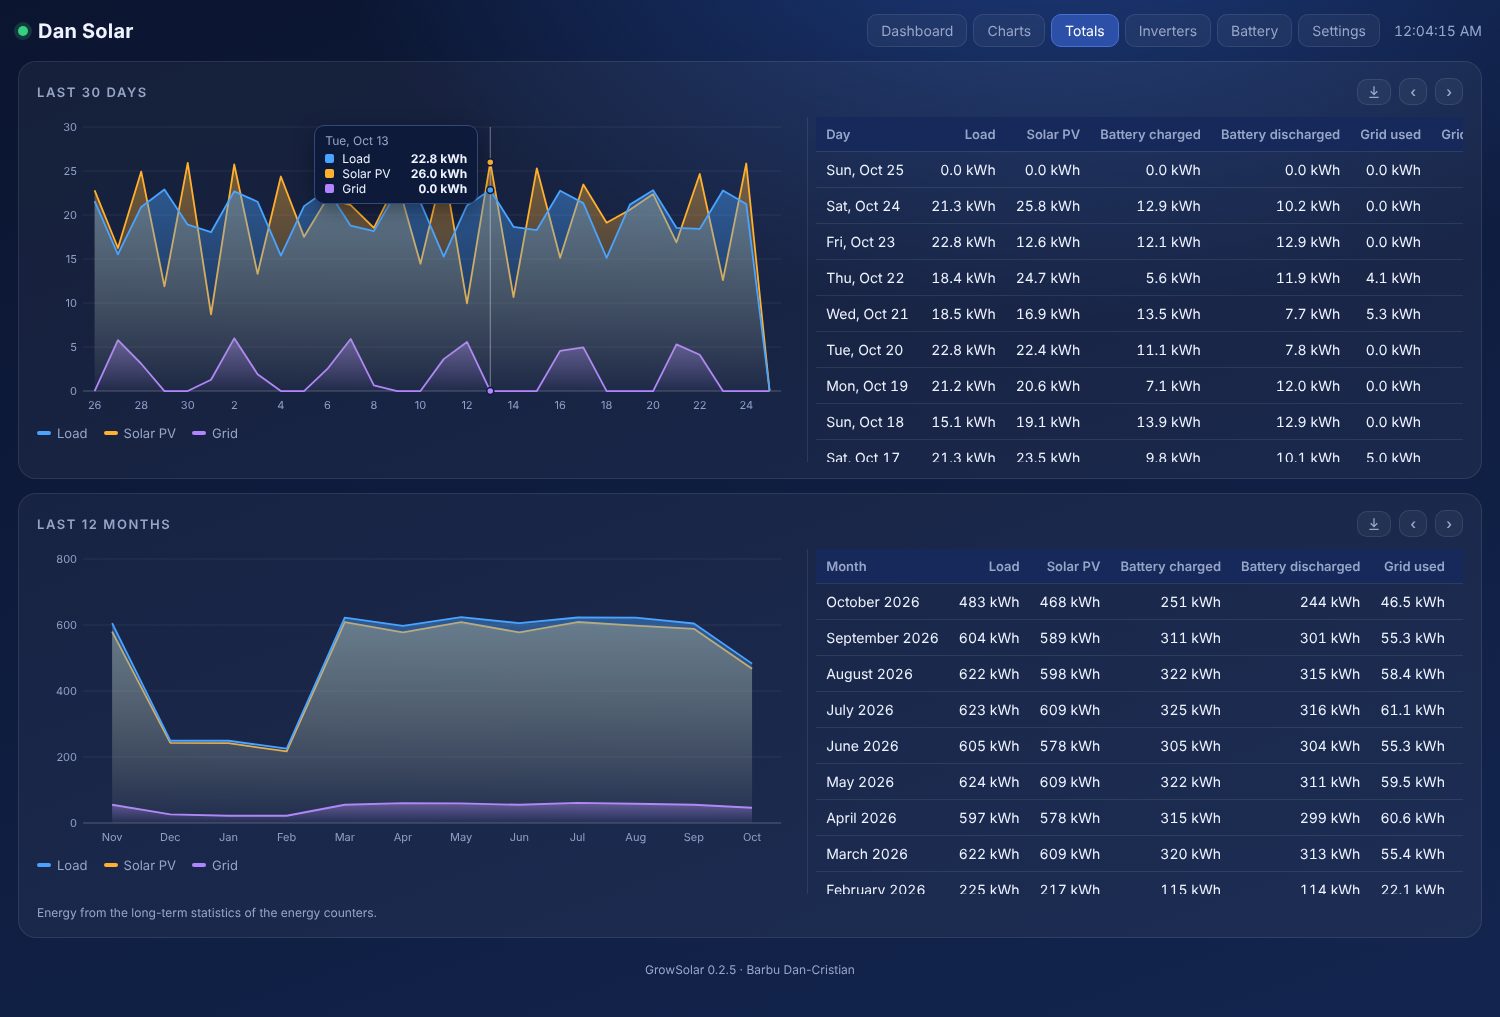
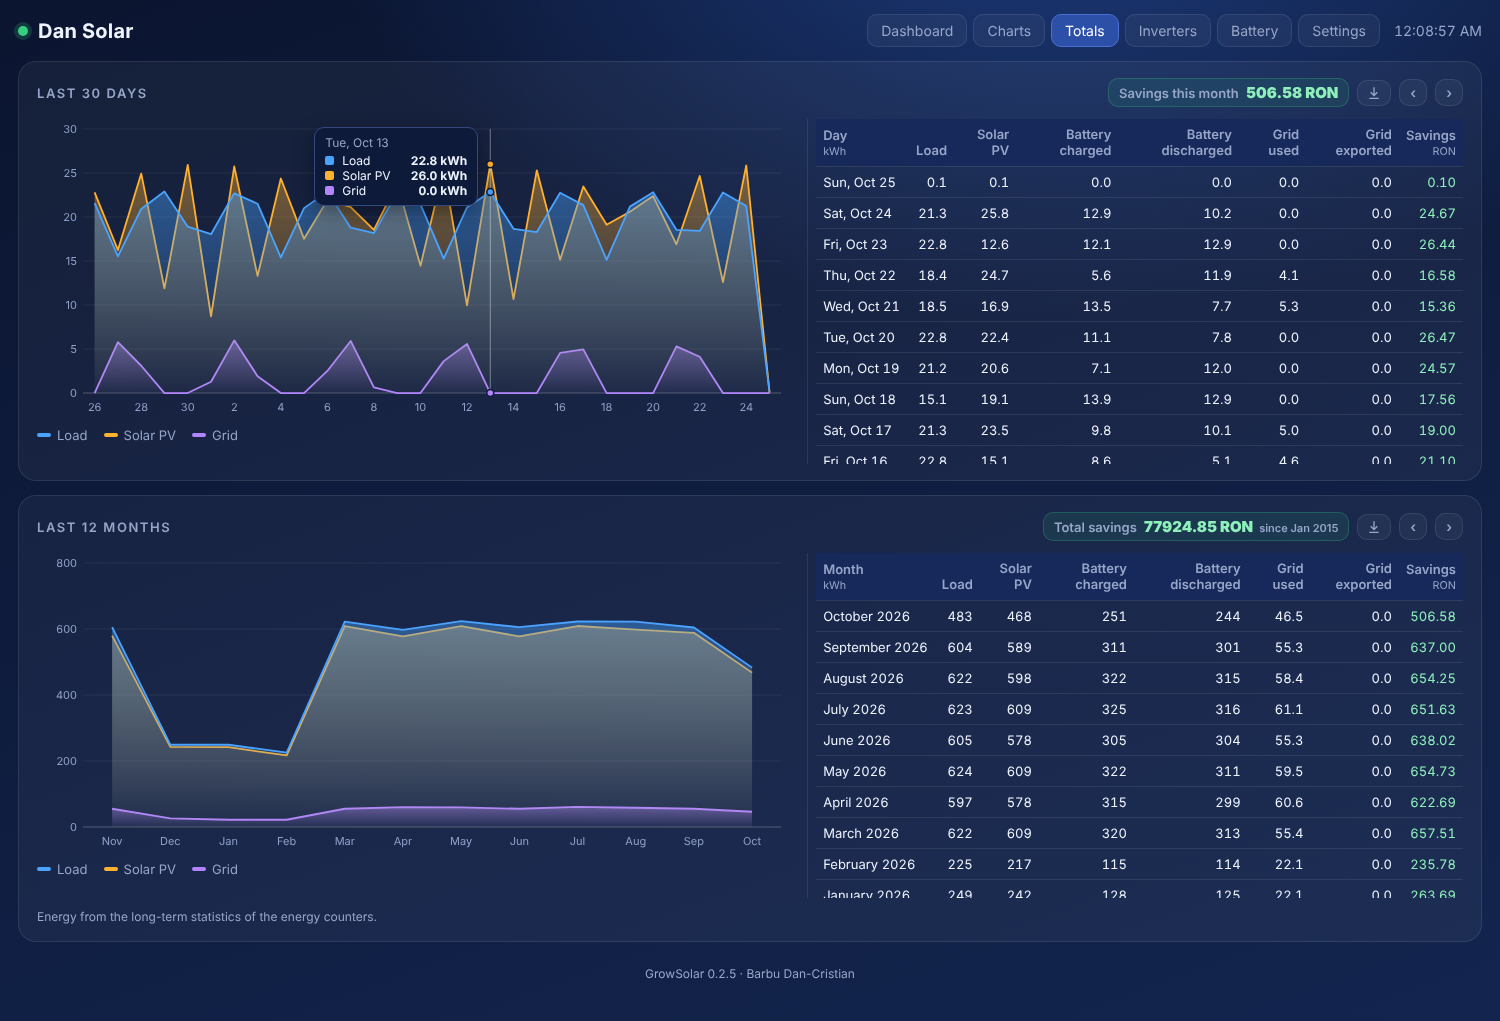
Totals: savings this month and total savings above the charts; compact tables keep the savings column visible

diff --git a/custom_components/growsolar/frontend/growsolar-panel.js b/custom_components/growsolar/frontend/growsolar-panel.js
@@ -34,7 +34,7 @@ const STR = {
     noData: 'No data', noSetup: 'GrowSolar has no entities yet. Open Settings → Devices & services → GrowSolar → Configure.',
     kwhNote: 'Energy from the long-term statistics of the energy counters.', price: 'Price',
     perInv: 'Inverter', mppt: 'mppt', loading: 'Loading…',
-    csv: 'Download CSV',
+    csv: 'Download CSV', savMonth: 'Savings this month', savTotal: 'Total savings', since: 'since',
     settings: 'Settings', firmware: 'Firmware', invClock: 'Inverter clock', mpptTemp: 'MPPT temperature', fan: 'Fan',
     setting: 'Setting', allInv: 'All inverters', applyAll: 'Apply to all', edit: 'Change', cancel: 'Cancel', save: 'Save',
     confirmTitle: 'Change inverter settings?', confirmOk: 'Yes, change', confirmNote: 'The inverters are changed one after the other; each value is checked before the next one is sent.',
@@ -69,7 +69,7 @@ const STR = {
     noData: 'Fără date', noSetup: 'GrowSolar nu are încă entități. Deschide Setări → Dispozitive și servicii → GrowSolar → Configurează.',
     kwhNote: 'Energia vine din statisticile pe termen lung ale contoarelor de energie.', price: 'Preț',
     perInv: 'Invertor', mppt: 'mppt', loading: 'Se încarcă…',
-    csv: 'Descarcă CSV',
+    csv: 'Descarcă CSV', savMonth: 'Economii luna aceasta', savTotal: 'Economii totale', since: 'din',
     settings: 'Setări', firmware: 'Firmware', invClock: 'Ceas invertor', mpptTemp: 'Temperatură MPPT', fan: 'Ventilator',
     setting: 'Setare', allInv: 'Toate invertoarele', applyAll: 'Aplică pe toate', edit: 'Schimbă', cancel: 'Renunță', save: 'Salvează',
     confirmTitle: 'Schimbi setările invertoarelor?', confirmOk: 'Da, schimbă', confirmNote: 'Invertoarele se schimbă pe rând; fiecare valoare e verificată înainte să o trimit pe următoarea.',
@@ -254,8 +254,13 @@ td small{color:var(--mut);margin-left:6px;font-size:11px;background:rgba(255,209
 .kv span:nth-child(even){font-variant-numeric:tabular-nums}
 .tot{display:grid;grid-template-columns:minmax(0,1.15fr) minmax(0,1fr);gap:16px;align-items:start}
 .tscroll{max-height:345px;overflow:auto;border-left:1px solid var(--line);padding-left:8px}
-.tscroll table th{position:sticky;top:0;background:#16295a;z-index:1}
+.tscroll table th{position:sticky;top:0;background:#16295a;z-index:1;white-space:normal;line-height:1.25;vertical-align:bottom}
+.tscroll th,.tscroll td{padding:7px 7px;font-size:13px}
+.tscroll th small{display:block;margin:2px 0 0;background:none;padding:0;font-weight:400;color:var(--mut)}
+.tscroll td.sv{color:#8ff0bb}
 .arrow.dl{display:inline-flex;align-items:center;padding:4px 8px}
+.sav{font-size:13px;letter-spacing:0;text-transform:none;color:var(--mut);background:rgba(53,208,127,.1);border:1px solid rgba(53,208,127,.25);border-radius:10px;padding:4px 10px;white-space:nowrap}
+.sav:empty{display:none}.sav b{color:#8ff0bb;font-size:15px;margin-left:4px}.sav small{margin-left:6px;font-size:11px}
 @media (max-width:900px){.tot{grid-template-columns:1fr}.tscroll{border-left:0;padding-left:0;max-height:none}}
 .note{color:var(--mut);font-size:13px;margin:10px 0 0;line-height:1.45}
 table.sets td.sv.click{cursor:pointer}table.sets td.sv.click:hover{background:rgba(74,111,208,.15)}
@@ -981,9 +986,9 @@ class GrowSolarPanel extends HTMLElement {
   /* ================================================================= totals */
   _totals(m) {
     const dl = (id) => `<button class="arrow dl" id="${id}" title="${esc(this.t('csv'))}"><svg viewBox="0 0 24 24" width="16" height="16"><path fill="currentColor" d="M12 3a1 1 0 0 1 1 1v9.6l3.3-3.3 1.4 1.4L12 17.4l-5.7-5.7 1.4-1.4 3.3 3.3V4a1 1 0 0 1 1-1zM5 19h14v2H5z"/></svg></button>`;
-    m.innerHTML = `<section class="card"><h2>${this.t('last30')}<span class="sp"></span>${dl('d_csv')}<button class="arrow" id="d_prev">‹</button><button class="arrow" id="d_next">›</button></h2>
+    m.innerHTML = `<section class="card"><h2>${this.t('last30')}<span class="sp"></span><span class="sav" id="d_sav"></span>${dl('d_csv')}<button class="arrow" id="d_prev">‹</button><button class="arrow" id="d_next">›</button></h2>
         <div class="tot"><div id="c_days"></div><div class="tscroll"><table id="t_days"></table></div></div></section>
-      <section class="card" style="margin-top:14px"><h2>${this.t('last12')}<span class="sp"></span>${dl('m_csv')}<button class="arrow" id="m_prev">‹</button><button class="arrow" id="m_next">›</button></h2>
+      <section class="card" style="margin-top:14px"><h2>${this.t('last12')}<span class="sp"></span><span class="sav" id="m_sav"></span>${dl('m_csv')}<button class="arrow" id="m_prev">‹</button><button class="arrow" id="m_next">›</button></h2>
         <div class="tot"><div id="c_months"></div><div class="tscroll"><table id="t_months"></table></div></div><div class="note">${this.t('kwhNote')}</div></section>`;
     this.$('#d_csv').addEventListener('click', () => this._csv('day'));
     this.$('#m_csv').addEventListener('click', () => this._csv('month'));
@@ -1030,6 +1035,7 @@ class GrowSolarPanel extends HTMLElement {
       }
       this._totRows = this._totRows || {};
       this._totRows[period] = rows;
+      if (period === 'month') this._savings(rows);
       this.bars(this.$(period === 'day' ? '#c_days' : '#c_months'), { id: period, rows, keys: keyset, area: true });
       const price = this._cfg.price || 0, cur = this._cfg.currency || '';
       const cols = [['load', 'load'], ['pv', 'solar'], ['bat_in', 'batCharged'], ['bat_out', 'batDischarged'], ['grid_in', 'gridUsed'], ['grid_out', 'gridExported']];
@@ -1037,10 +1043,31 @@ class GrowSolarPanel extends HTMLElement {
       const has = (k) => (this.en[k] || []).length || rows.some((r) => isNum(r.values[k]));
       const shown = cols.filter(([k]) => has(k));
       const tb = this.$(period === 'day' ? '#t_days' : '#t_months');
-      tb.innerHTML = `<tr><th>${this.t(period)}</th>${shown.map(([, l]) => `<th>${this.t(l)}</th>`).join('')}${price && has('load') ? `<th>${this.t('savings')}</th>` : ''}</tr>` +
+      // energy in kWh without the unit in every cell, so the savings column fits next to the chart
+      const kwh = (v) => (isNum(v) ? (Math.abs(v) >= 100 ? v.toFixed(0) : v.toFixed(1)) : '–');
+      tb.innerHTML = `<tr><th>${this.t(period)}<small>kWh</small></th>${shown.map(([, l]) => `<th>${this.t(l)}</th>`).join('')}${price && has('load') ? `<th>${this.t('savings')}<small>${esc(cur)}</small></th>` : ''}</tr>` +
         [...rows].reverse().map((r) => { const v = r.values, sav = isNum(v.load) ? (v.load - (v.grid_in || 0)) * price : NaN;
-          return `<tr><td>${esc(r.label)}</td>${shown.map(([k]) => `<td>${fmtKwh(v[k])}</td>`).join('')}${price && has('load') ? `<td>${isNum(sav) ? sav.toFixed(2) + ' ' + esc(cur) : '–'}</td>` : ''}</tr>`; }).join('');
+          return `<tr><td>${esc(r.label)}</td>${shown.map(([k]) => `<td>${kwh(v[k])}</td>`).join('')}${price && has('load') ? `<td class="sv">${isNum(sav) ? sav.toFixed(2) : '–'}</td>` : ''}</tr>`; }).join('');
     } catch (e) { console.error('GrowSolar totals', e); }
+  }
+  /* savings above the charts: this month (daily card) and since the first recorded month (monthly card) */
+  async _savings(rows) {
+    const price = this._cfg.price || 0, cur = this._cfg.currency || '';
+    const ds = this.$('#d_sav'), ms = this.$('#m_sav');
+    if (!price || !ds || !ms) return;
+    const sav = (v) => (isNum(v.load) ? (v.load - (v.grid_in || 0)) * price : NaN);
+    const m0 = new Date(new Date().getFullYear(), new Date().getMonth(), 1).getTime();
+    const curRow = rows.find((r) => r.t === m0);
+    const sm = curRow ? sav(curRow.values) : NaN;
+    ds.innerHTML = isNum(sm) ? `${esc(this.t('savMonth'))} <b>${sm.toFixed(2)} ${esc(cur)}</b>` : '';
+    try {
+      // every month with statistics; the current month comes from the row above (it includes today)
+      const st = await this.energyStats(new Date(2015, 0, 1).getTime(), m0, 'month');
+      let total = isNum(sm) ? sm : 0, first = curRow && isNum(sm) ? m0 : 0;
+      for (const [t, v] of Object.entries(st)) { const x = sav(v); if (isNum(x) && +t < m0) { total += x; if (!first || +t < first) first = +t; } }
+      const since = first ? new Date(first).toLocaleDateString(this.lang, { month: 'short', year: 'numeric' }) : '';
+      ms.innerHTML = first ? `${esc(this.t('savTotal'))} <b>${total.toFixed(2)} ${esc(cur)}</b><small>${esc(this.t('since'))} ${esc(since)}</small>` : '';
+    } catch (e) { ms.innerHTML = ''; }
   }
   /* CSV with the same columns as Solar Assistant's export (Wh), oldest row first */
   _csv(period) {

diff --git a/README.ro.md b/README.ro.md
@@ -26,7 +26,7 @@ Senzorii sunt găsiți automat după ID-ul lor unic, deci nu contează cum i-ai 
 
 <img src="https://raw.githubusercontent.com/barbudancristian/GrowSolar/main/docs/img/charts.png" width="900" alt="Grafice">
 
-**Totaluri**: ultimele 30 de zile și ultimele 12 luni ca grafice cu suprafețe colorate, lângă un tabel cu consumul, producția solară, energia încărcată și descărcată din baterie, energia luată din rețea și trimisă în rețea, plus economiile la prețul tău. Butonul de descărcare salvează fiecare tabel ca fișier CSV (aceleași coloane ca exportul Solar Assistant, în Wh).
+**Totaluri**: ultimele 30 de zile și ultimele 12 luni ca grafice cu suprafețe colorate, lângă un tabel cu consumul, producția solară, energia încărcată și descărcată din baterie, energia luată din rețea și trimisă în rețea, plus economiile la prețul tău. Deasupra graficelor: economiile din luna curentă și economiile totale de la prima lună înregistrată. Butonul de descărcare salvează fiecare tabel ca fișier CSV (aceleași coloane ca exportul Solar Assistant, în Wh).
 
 <img src="https://raw.githubusercontent.com/barbudancristian/GrowSolar/main/docs/img/totals.png" width="900" alt="Totaluri">
 

diff --git a/README.md b/README.md
@@ -26,7 +26,7 @@ The sensors are found automatically by their unique ids, so it does not matter h
 
 <img src="https://raw.githubusercontent.com/barbudancristian/GrowSolar/main/docs/img/charts.png" width="900" alt="Charts">
 
-**Totals**: the last 30 days and the last 12 months as filled area charts next to a table of load, solar, battery charged and discharged, grid used and exported, and the savings at your energy price. The download button saves each table as a CSV file (same columns as Solar Assistant's export, in Wh).
+**Totals**: the last 30 days and the last 12 months as filled area charts next to a table of load, solar, battery charged and discharged, grid used and exported, and the savings at your energy price. Above the charts: the savings of the current month and the total savings since the first recorded month. The download button saves each table as a CSV file (same columns as Solar Assistant's export, in Wh).
 
 <img src="https://raw.githubusercontent.com/barbudancristian/GrowSolar/main/docs/img/totals.png" width="900" alt="Totals">
 
